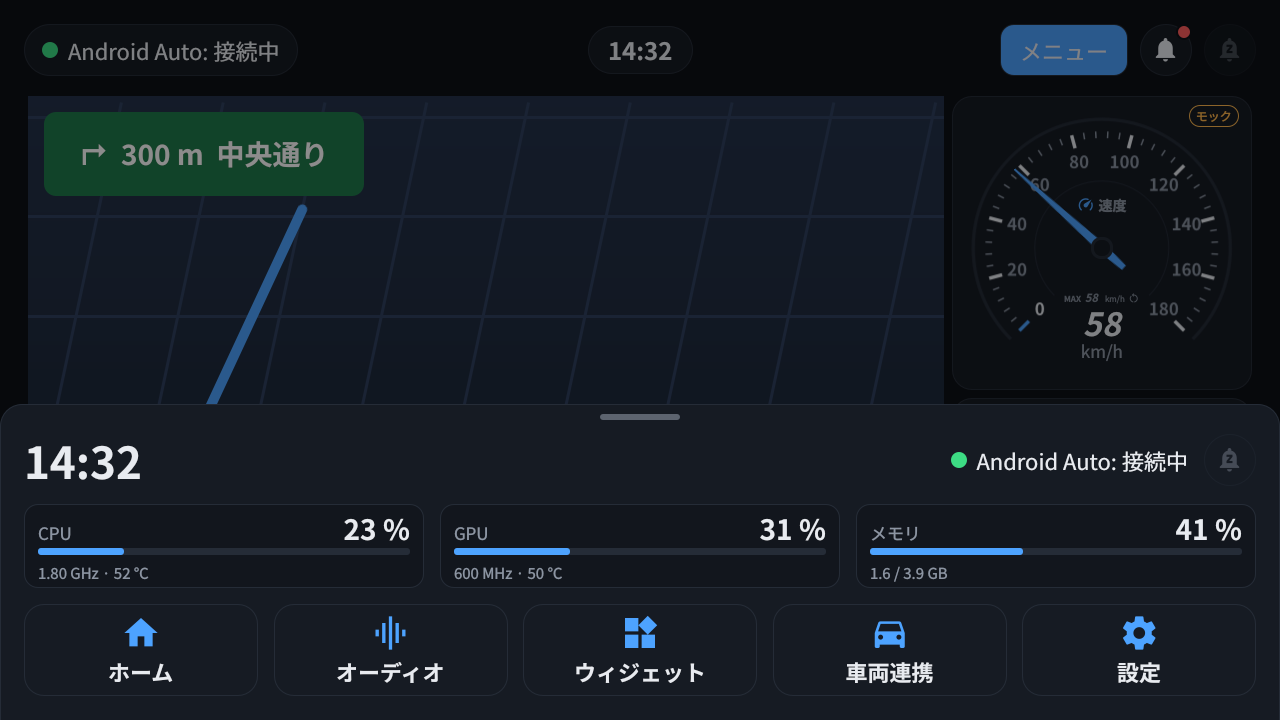
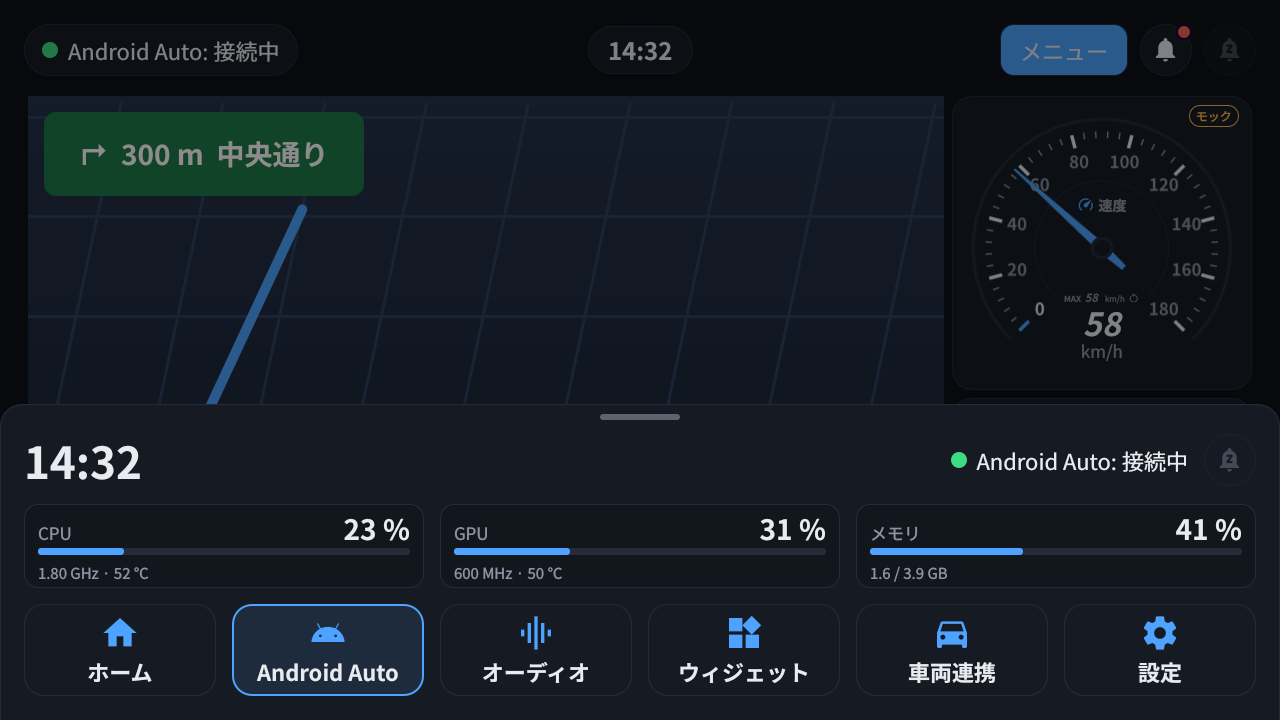
gooood

diff --git a/app/qml/LauncherScreen.qml b/app/qml/LauncherScreen.qml
@@ -1,5 +1,5 @@
 // 初期画面(ランチャー): 最上部にステータスバー(中央にウィジェットのページのタブ)、中央はウィジェット配置エリア
-// (ページごと。時計・あいさつもウィジェット)、下部にナビバー(大型ボタン 5 つ)。
+// (ページごと。時計・あいさつもウィジェット)、下部にナビバー(大型ボタン 6 つ。Android Auto 画面へ移るボタンもここ)。
 // 運転中でも迷わないよう、操作は下部バーに集約する。未実装の機能は押すとモック通知を出す。
 import QtQuick
 import OpenCruise
@@ -24,7 +24,7 @@ Item {
     // ウィジェットの追加パネルを開く(ナビバーのボタン、フルスクリーン中の下メニューから)
     function openPicker() { picker.show() }
 
-    // ---- 下部: ナビバー(大型ボタン 5 つ。左端はホーム=この画面) ----
+    // ---- 下部: ナビバー(大型ボタン 6 つ。左端はホーム=この画面) ----
     Item {
         id: bar
         anchors {
@@ -32,30 +32,38 @@ Item {
             leftMargin: Theme.margin * 1.5; rightMargin: Theme.margin * 1.5; bottomMargin: Theme.margin * 1.5
         }
         height: Math.max(76, parent.height * 0.15)
-        readonly property real cellW: (width - 4 * root.gap) / 5
+        readonly property real cellW: (width - 5 * root.gap) / 6
 
         LauncherTile {
             x: 0; width: bar.cellW; height: bar.height; unit: root.unit ; selected: true
             icon: "home"; title: "ホーム"
             onClicked: {}
         }
+        // Android Auto 画面へ(映像が出ている間だけ。出ていないときは薄く表示し、押すと理由を知らせる)
         LauncherTile {
             x: 1 * (bar.cellW + root.gap); width: bar.cellW; height: bar.height; unit: root.unit
+            icon: "mdi:android"; title: "Android Auto"
+            dimmed: !root.aaAvailable
+            onClicked: root.aaAvailable ? root.openAndroidAuto()
+                                        : notifications.show("Android Auto", "スマートフォンが接続されていません", 0, "mdi:android")
+        }
+        LauncherTile {
+            x: 2 * (bar.cellW + root.gap); width: bar.cellW; height: bar.height; unit: root.unit
             icon: "graphic_eq"; title: "オーディオ"
             onClicked: root.showMock("オーディオ操作")
         }
         LauncherTile {
-            x: 2 * (bar.cellW + root.gap); width: bar.cellW; height: bar.height; unit: root.unit
+            x: 3 * (bar.cellW + root.gap); width: bar.cellW; height: bar.height; unit: root.unit
             icon: "widgets"; title: "ウィジェット"
             onClicked: root.openPicker()
         }
         LauncherTile {
-            x: 3 * (bar.cellW + root.gap); width: bar.cellW; height: bar.height; unit: root.unit
+            x: 4 * (bar.cellW + root.gap); width: bar.cellW; height: bar.height; unit: root.unit
             icon: "directions_car"; title: "車両連携"
             onClicked: root.showMock("車両連携")
         }
         LauncherTile {
-            x: 4 * (bar.cellW + root.gap); width: bar.cellW; height: bar.height; unit: root.unit
+            x: 5 * (bar.cellW + root.gap); width: bar.cellW; height: bar.height; unit: root.unit
             icon: "settings"; title: "設定"
             onClicked: root.openSettings()
         }
@@ -90,17 +98,11 @@ Item {
             onMenuRequested: (index) => pageMenu.show(index)
         }
 
-        // 補助操作(Android Auto へ戻る・通知)は控えめに右上へ
+        // 補助操作(通知・警告の解除)は控えめに右上へ(Android Auto 画面へは下のナビバーから)
         Row {
             id: rightButtons
             anchors { right: parent.right; verticalCenter: parent.verticalCenter }
             spacing: 12
-            ActionButton {
-                visible: root.aaAvailable
-                selected: true
-                text: "Android Auto を表示"
-                onClicked: root.openAndroidAuto()
-            }
             NotificationBell { }
             AlarmClearButton { }   // 鳴っている警告をまとめて解除(右端)
         }

diff --git a/app/qml/HomeScreen.qml b/app/qml/HomeScreen.qml
@@ -348,7 +348,7 @@ Rectangle {
             visible: systemStats.showInMenu
         }
 
-        // 下段: 大型ボタン 5 つ(初期画面のナビバーと同じ内容・並び。終了ボタンは置かない)
+        // 下段: 大型ボタン 6 つ(初期画面のナビバーと同じ内容・並び。終了ボタンは置かない)
         Item {
             id: sheetButtons
             anchors {
@@ -357,7 +357,7 @@ Rectangle {
                 leftMargin: Theme.margin * 1.5; rightMargin: Theme.margin * 1.5
                 bottom: parent.bottom; bottomMargin: Theme.margin * 1.5 + sheet.cornerRadius
             }
-            readonly property real cellW: (width - 4 * Theme.margin) / 5
+            readonly property real cellW: (width - 5 * Theme.margin) / 6
 
             LauncherTile {
                 x: 0; width: sheetButtons.cellW; height: sheetButtons.height; unit: root.sheetUnit
@@ -367,11 +367,25 @@ Rectangle {
             }
             LauncherTile {
                 x: 1 * (sheetButtons.cellW + Theme.margin); width: sheetButtons.cellW; height: sheetButtons.height; unit: root.sheetUnit
+                icon: "mdi:android"; title: "Android Auto"
+                selected: root.showAa
+                dimmed: androidAuto.stateKey !== "streaming"
+                onClicked: {
+                    if (androidAuto.stateKey !== "streaming") {
+                        notifications.show("Android Auto", "スマートフォンが接続されていません", 0, "mdi:android")
+                        return
+                    }
+                    root.menuOpen = false
+                    root.openAndroidAuto()
+                }
+            }
+            LauncherTile {
+                x: 2 * (sheetButtons.cellW + Theme.margin); width: sheetButtons.cellW; height: sheetButtons.height; unit: root.sheetUnit
                 icon: "graphic_eq"; title: "オーディオ"
                 onClicked: root.showMock("オーディオ操作")
             }
             LauncherTile {
-                x: 2 * (sheetButtons.cellW + Theme.margin); width: sheetButtons.cellW; height: sheetButtons.height; unit: root.sheetUnit
+                x: 3 * (sheetButtons.cellW + Theme.margin); width: sheetButtons.cellW; height: sheetButtons.height; unit: root.sheetUnit
                 icon: "widgets"; title: "ウィジェット"
                 // フルスクリーンでない Android Auto 画面なら、その画面のウィジェットを足す。それ以外は初期画面へ
                 onClicked: {
@@ -381,12 +395,12 @@ Rectangle {
                 }
             }
             LauncherTile {
-                x: 3 * (sheetButtons.cellW + Theme.margin); width: sheetButtons.cellW; height: sheetButtons.height; unit: root.sheetUnit
+                x: 4 * (sheetButtons.cellW + Theme.margin); width: sheetButtons.cellW; height: sheetButtons.height; unit: root.sheetUnit
                 icon: "directions_car"; title: "車両連携"
                 onClicked: root.showMock("車両連携")
             }
             LauncherTile {
-                x: 4 * (sheetButtons.cellW + Theme.margin); width: sheetButtons.cellW; height: sheetButtons.height; unit: root.sheetUnit
+                x: 5 * (sheetButtons.cellW + Theme.margin); width: sheetButtons.cellW; height: sheetButtons.height; unit: root.sheetUnit
                 icon: "settings"; title: "設定"
                 onClicked: { root.menuOpen = false; root.openSettings() }
             }

diff --git a/app/qml/LauncherTile.qml b/app/qml/LauncherTile.qml
@@ -9,7 +9,11 @@ Rectangle {
     property real unit: 1.0
     // 現在表示中の画面を示す(ホームなど)。枠をアクセント色にする
     property bool selected: false
+    // 今は使えない(押すと理由を知らせるなど)。薄く表示する
+    property bool dimmed: false
     signal clicked()
+
+    opacity: dimmed ? 0.45 : 1
 
     radius: Theme.radius + 6
     // 押している間はアクセント色をパネル色に混ぜて、押下を一目で分かるようにする(文字色はそのまま読める濃さに留める)
